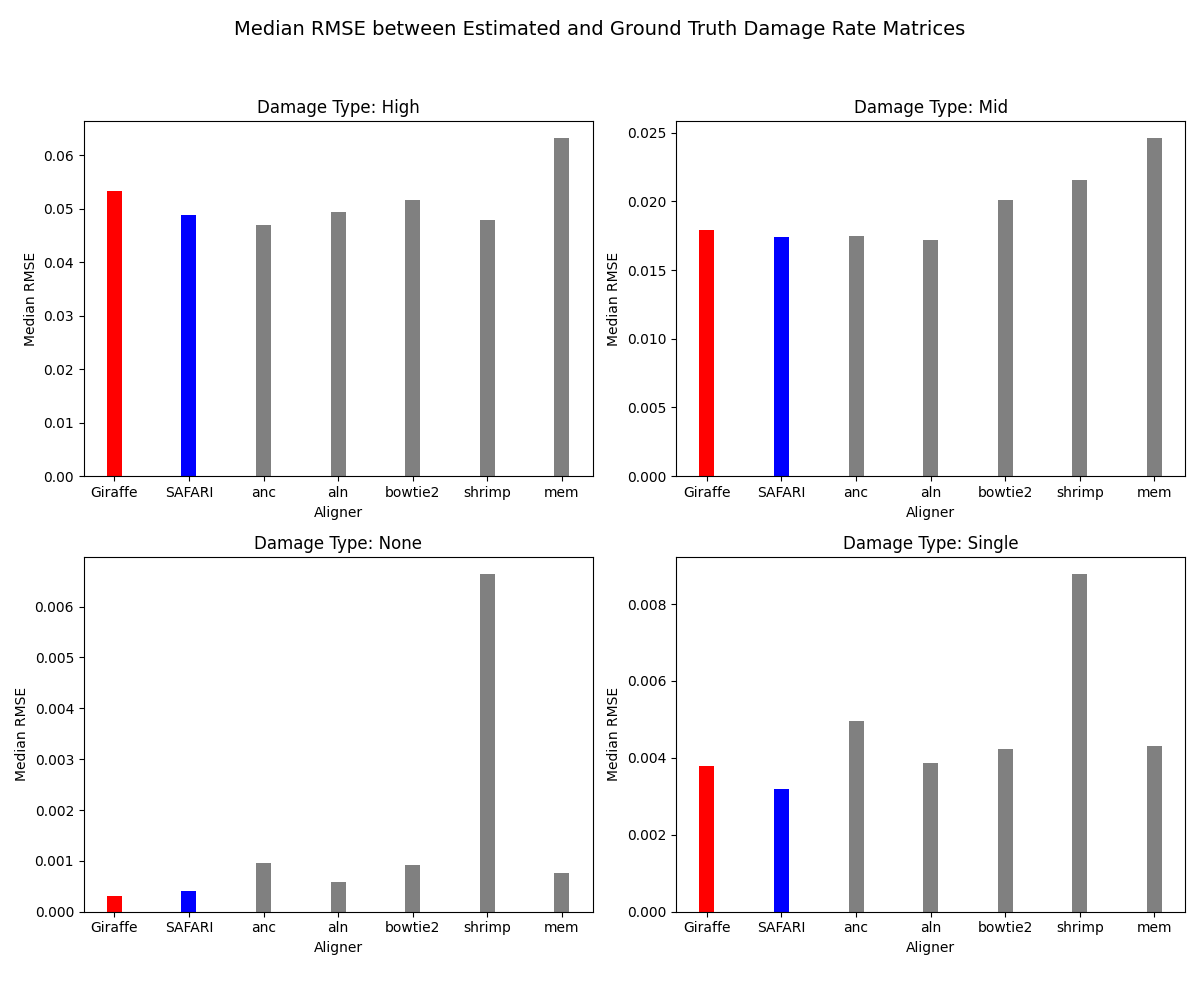
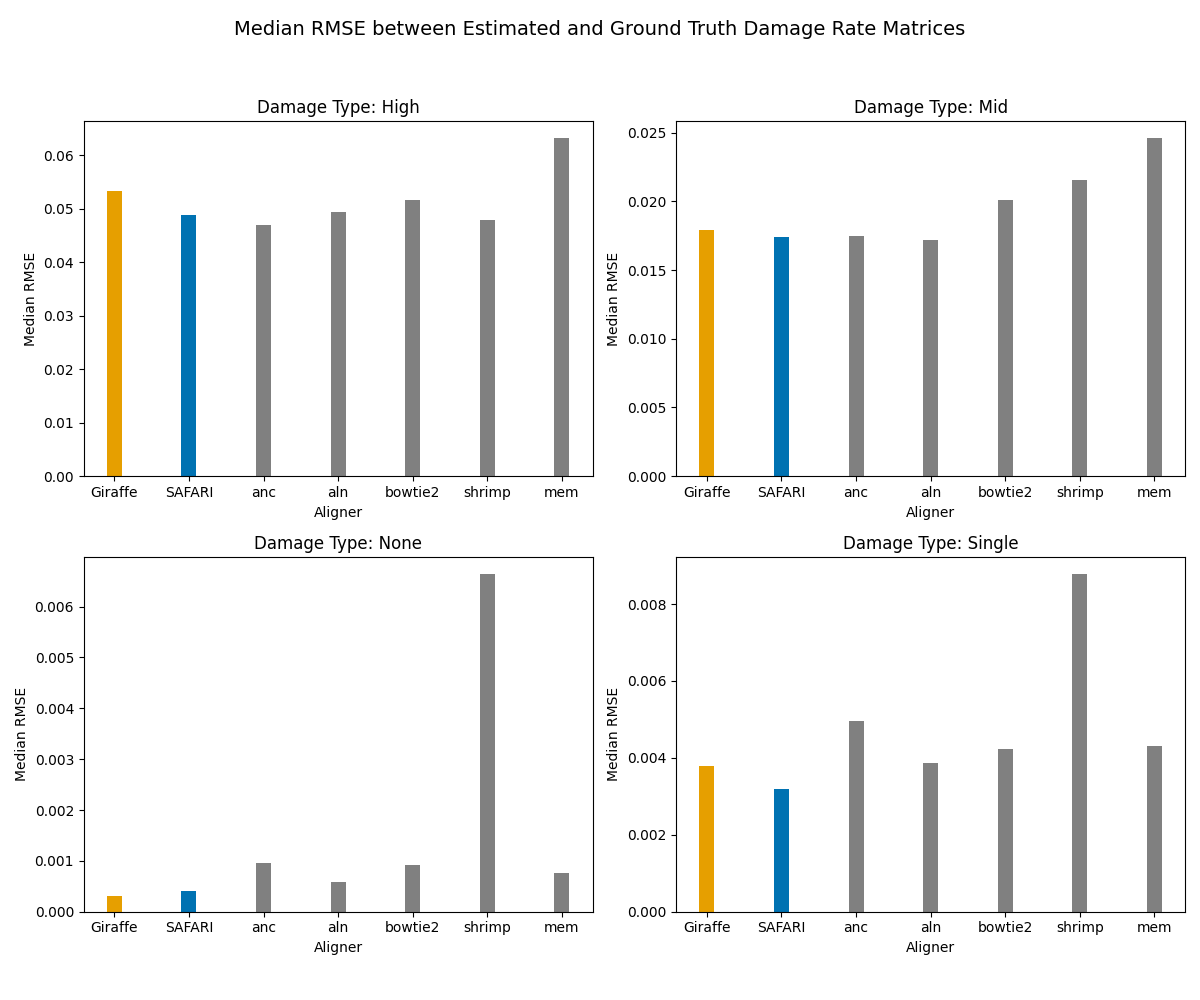
Update

diff --git a/linear_experiment/human_mito/compare_damage_est.py b/linear_experiment/human_mito/compare_damage_est.py
@@ -115,9 +115,9 @@ def plot_rmse(rmse_data, rmse_sample_count_data, plot_title, save_file_name):
         
         for j, aligner in enumerate(aligners):
             if aligner == 'giraffe':
-                color = '#FF0000'  # Red color for giraffe
+                color = '#E69F00'
             elif aligner == 'safari':
-                color = '#0000FF'  # Blue color for SAFARI
+                color = '#0072B2'
             else:
                 color = grey_color  # Grey color for other aligners
             label = display_labels.get(aligner, aligner)
